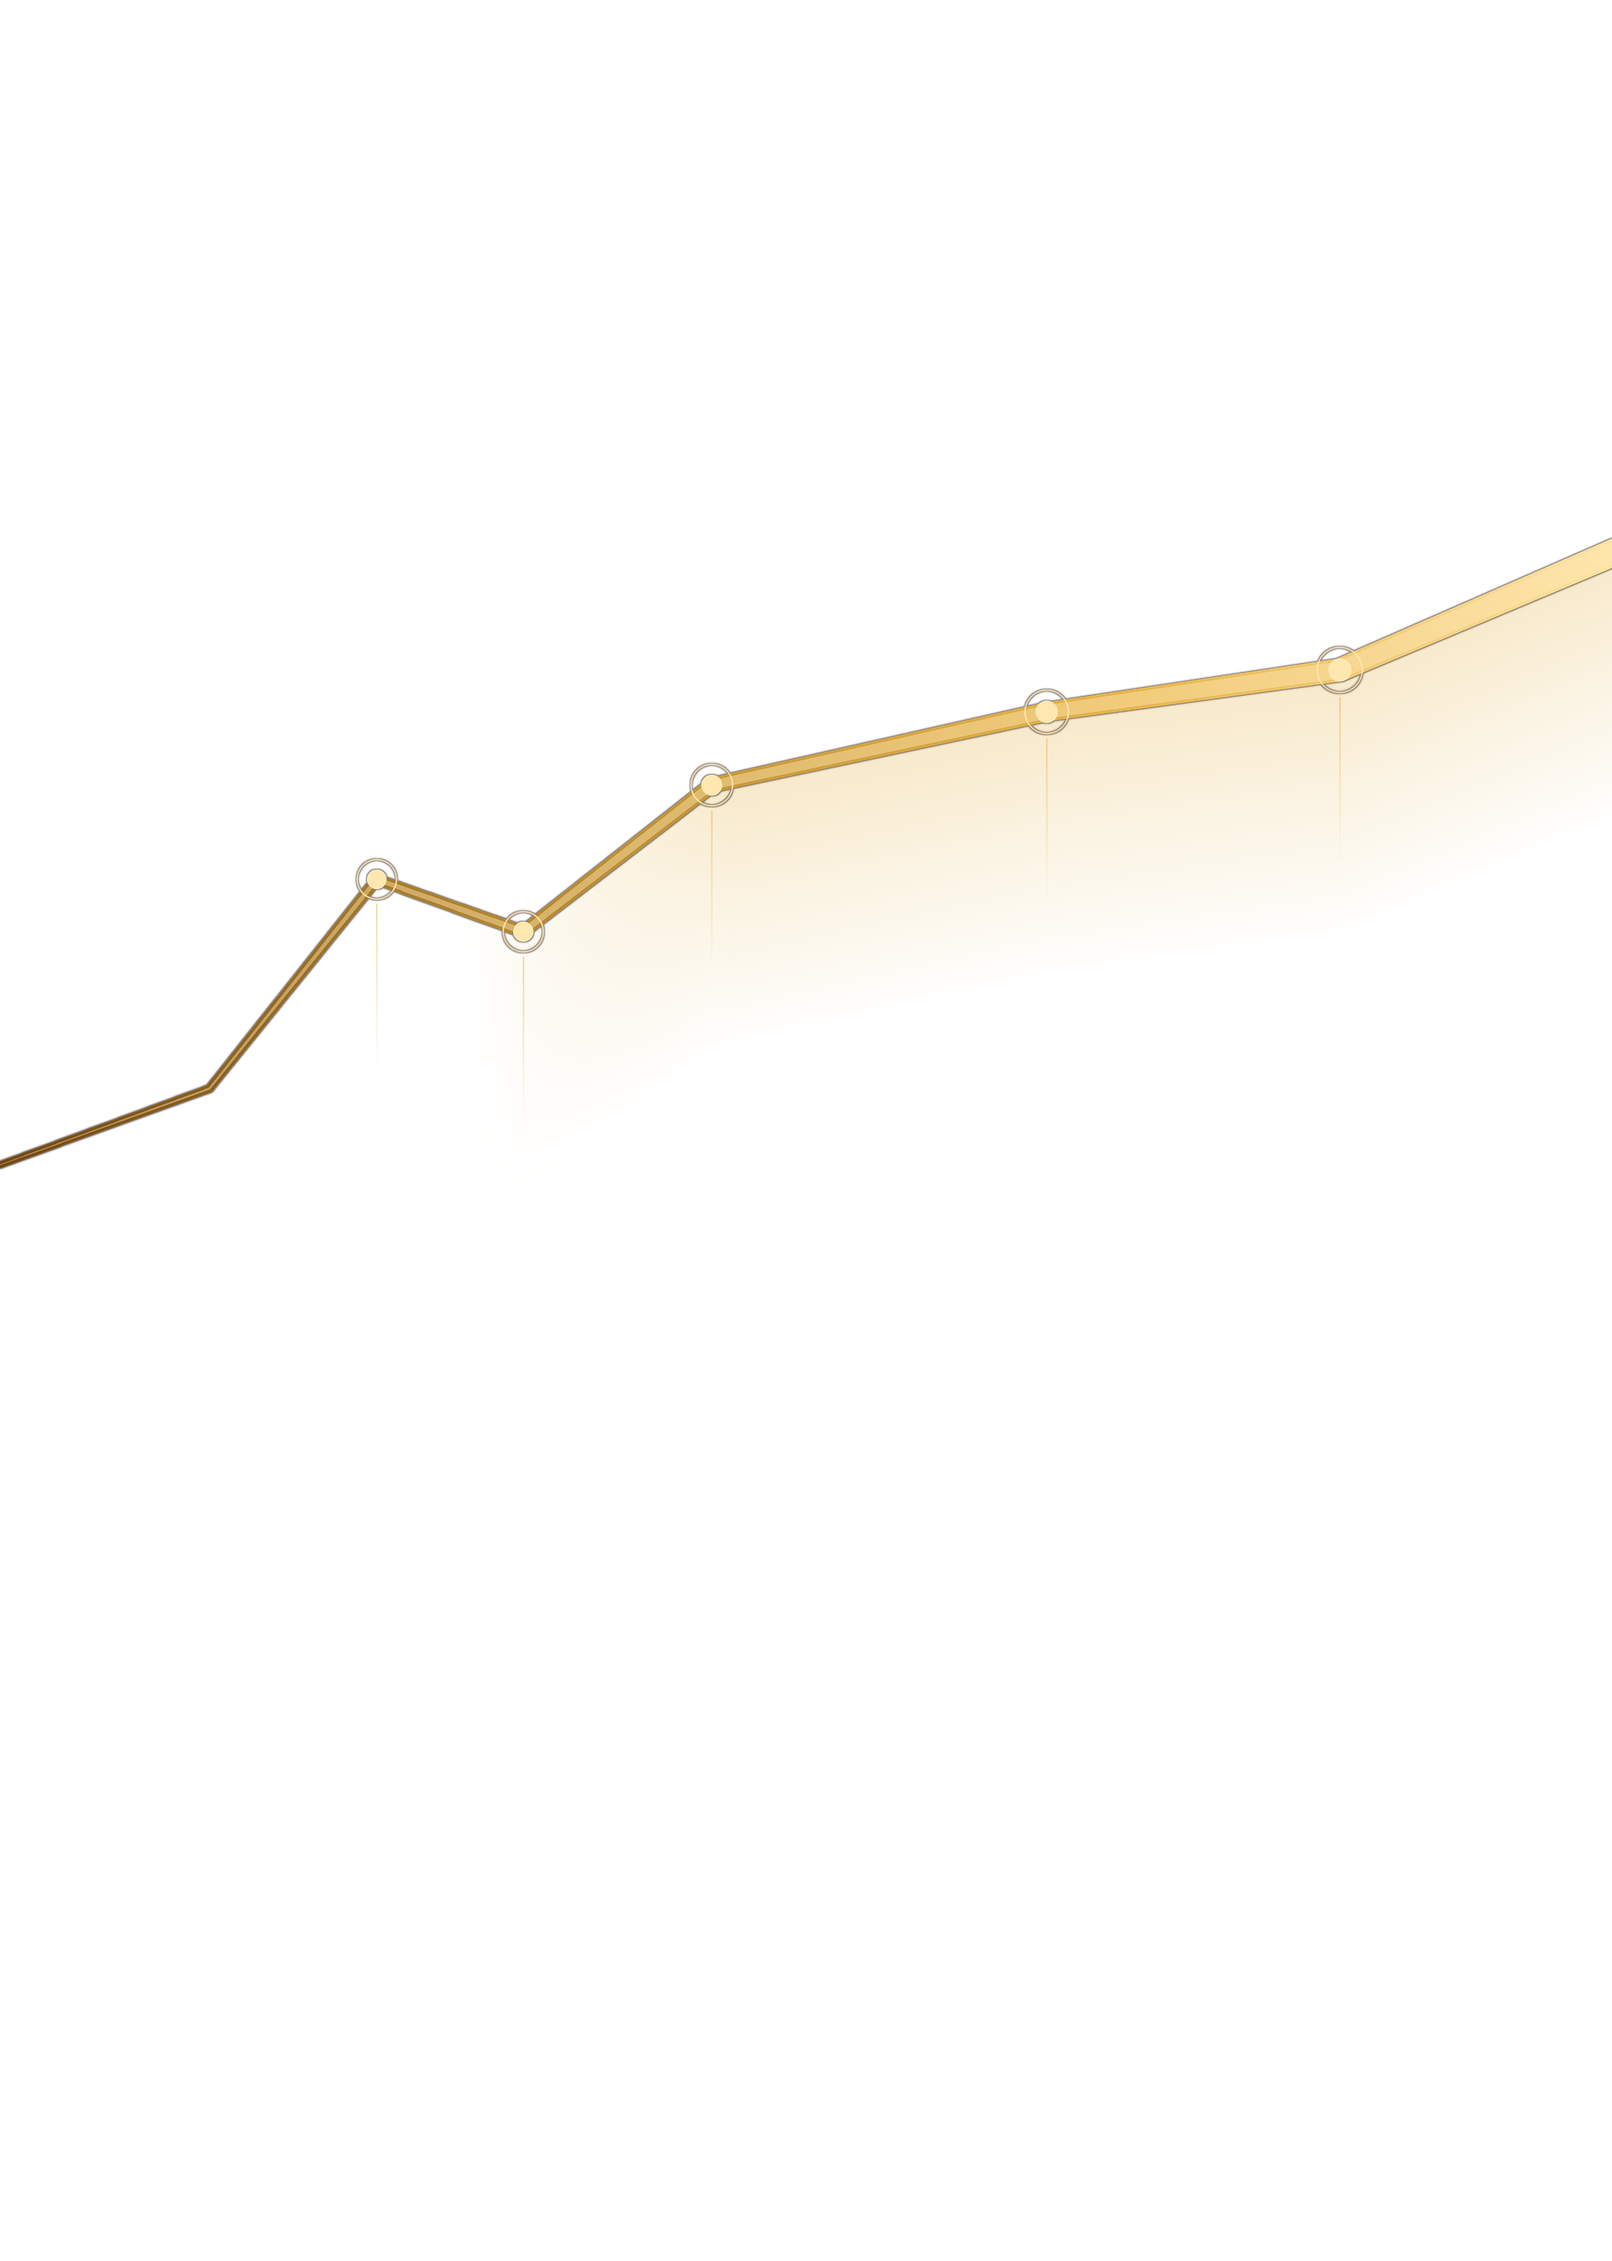
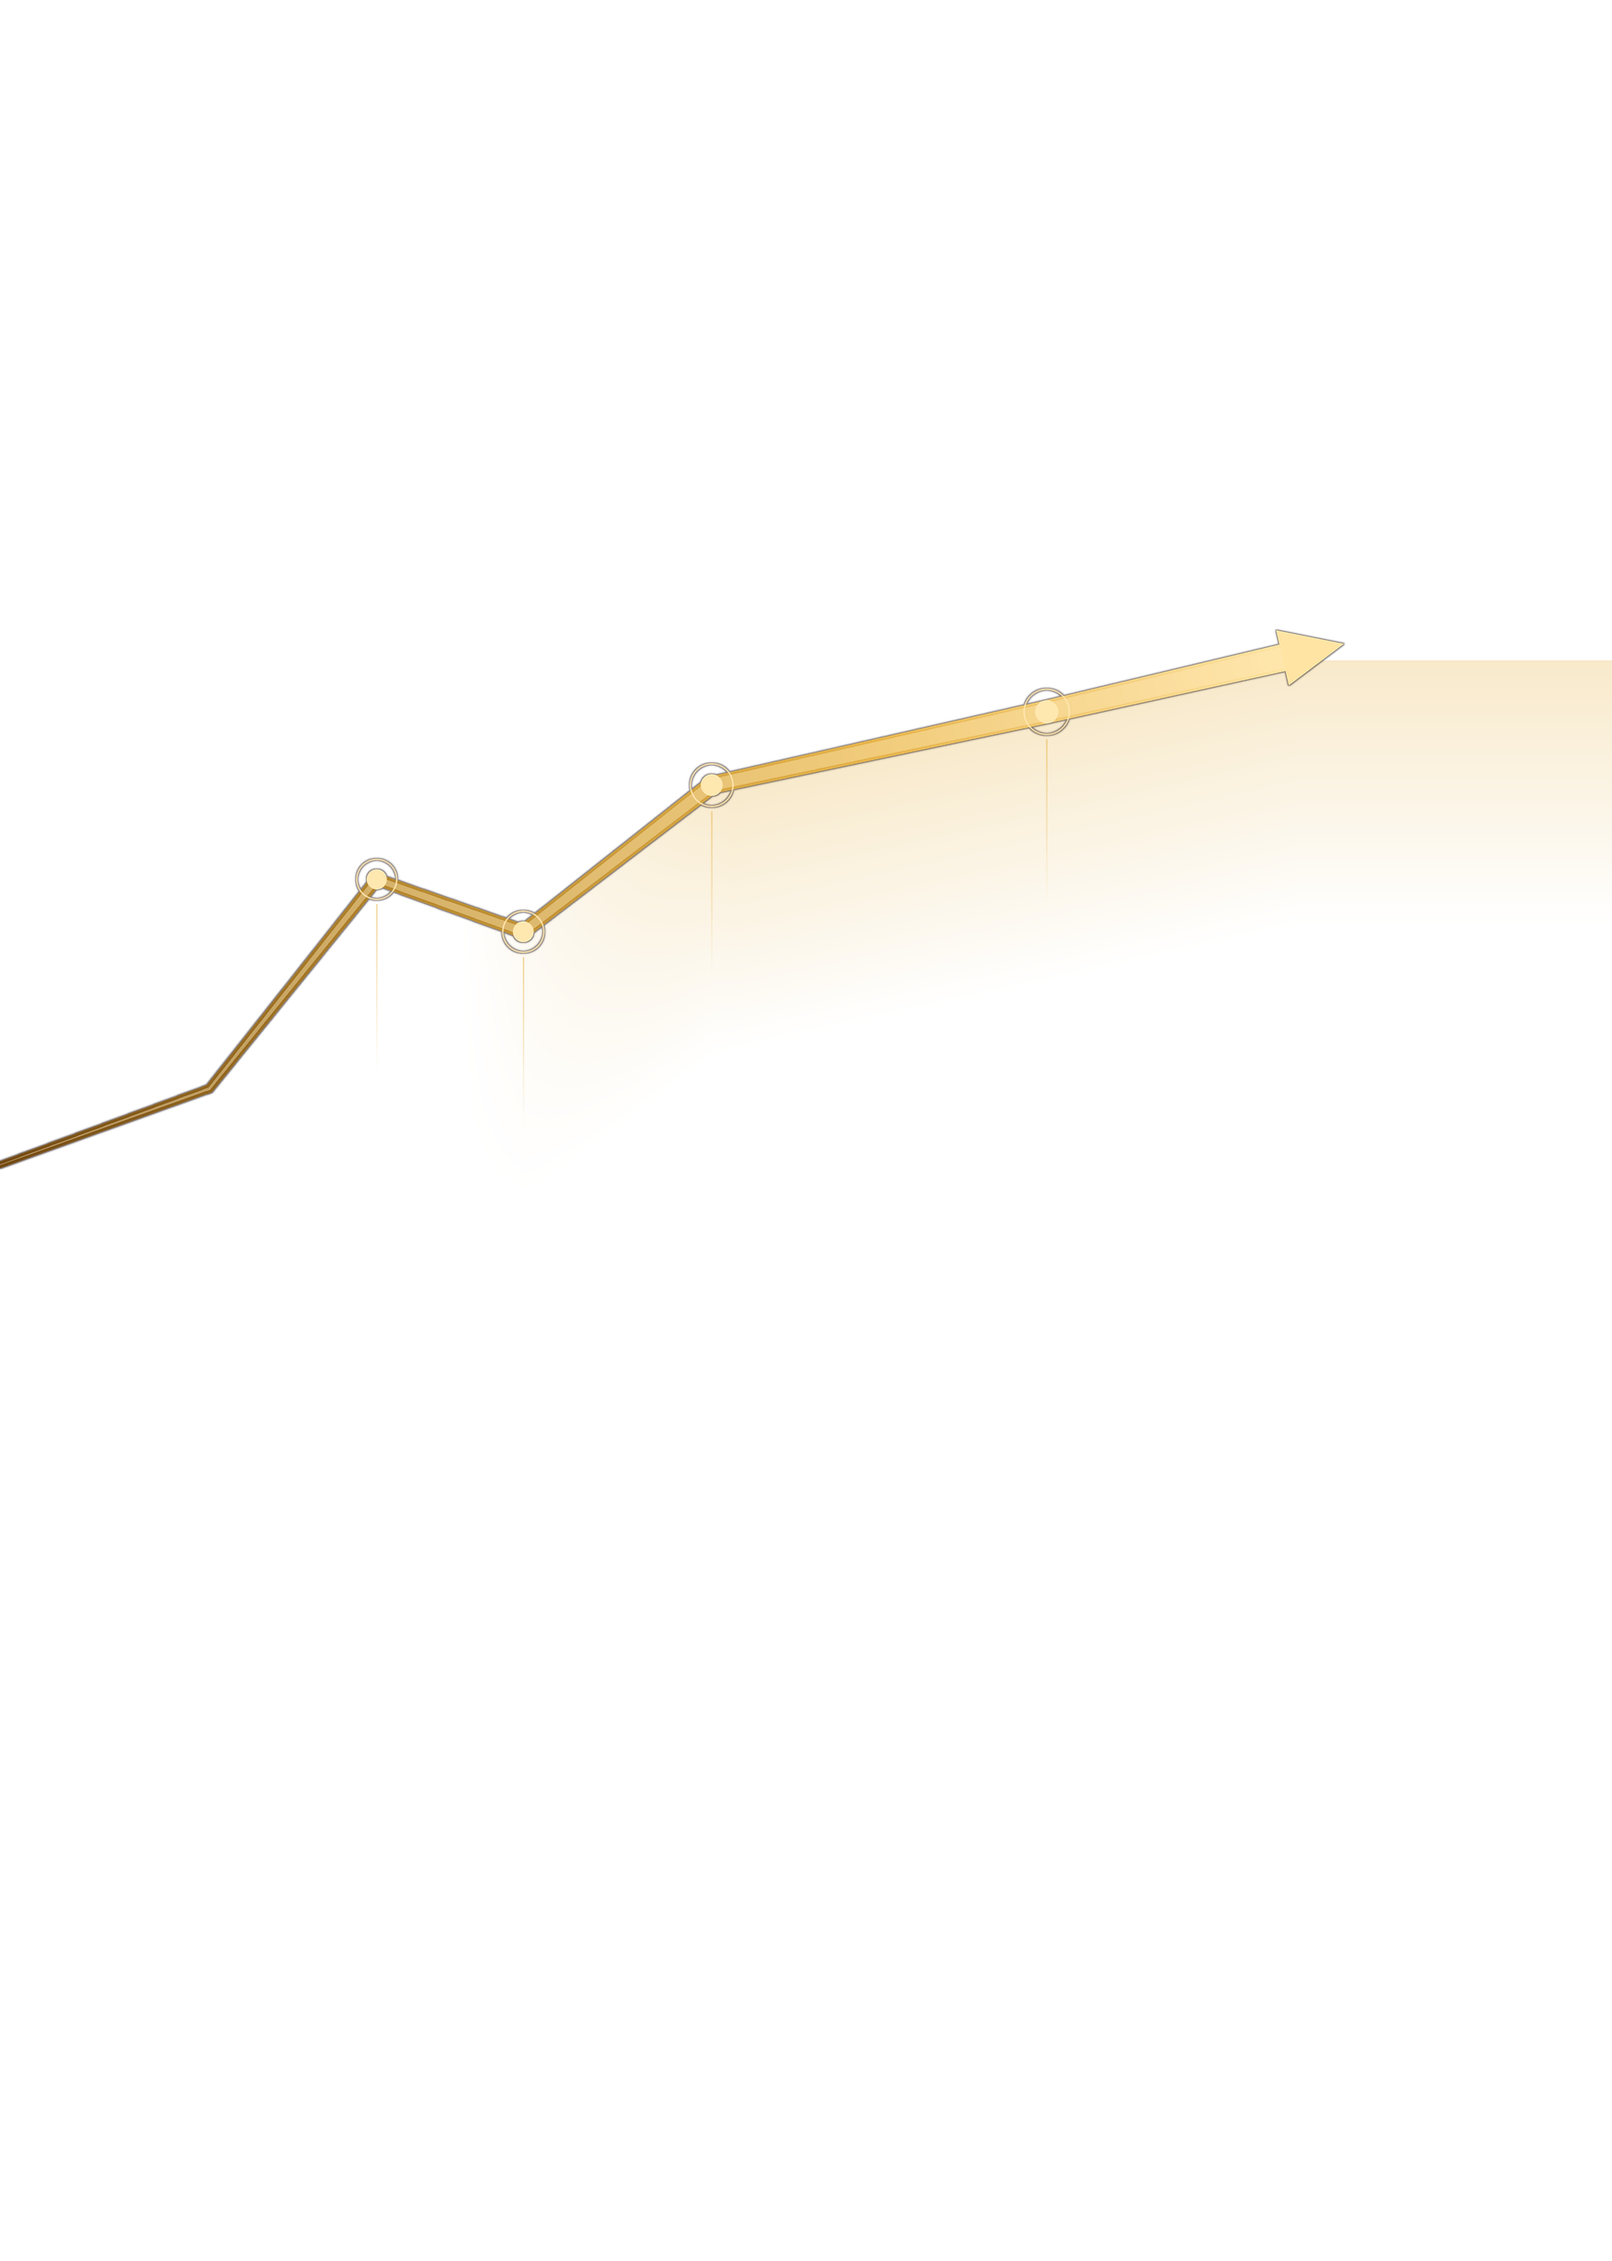
9.5 push: C3 sun, arrow-ended chart, smaller flags, calmer guilloche
- C3: visible dawn sun in the clear gap between the tanker's mast and the chimneys
  (the sunrise had no source); the chart now ends in an arrowhead below the address
  block instead of running off the edge, so it reads as recovery, not rising prices;
  flag ~12% smaller and clears the sky higher; crew larger and closer.
- C2: guilloche eased back close around the dome, so the dome reads first.
- C1: flag ~7% smaller so the palace leads; haze a step denser and more amber.

Claude-Session: https://claude.ai/code/session_01Tw5UnJa8MtZgySYWAndeu3

diff --git a/_scripts/build_C3.py b/_scripts/build_C3.py
@@ -67,13 +67,26 @@ sky = C.curves(sky, [(0, 0), (0.5, 0.47), (1, 0.97)])
 sky = C.blend(sky, np.broadcast_to(C.hexf("#FFC27A"), sky.shape), C.radial(*SUN, 70, 2.4), "screen", 0.55)
 sky = C.blend(sky, np.broadcast_to(C.hexf("#FFF1D2"), sky.shape), C.radial(*SUN, 10, 2.0), "screen", 0.9)
 st = C.Stack("Sky - sunrise", sky)
+# 9.5 review: the sunrise had no source. A visible sun just above the horizon, behind the tanker's
+# bridge, is the cover's focal point: a near-white core, a warm corona and a wide low glow
+# (in the clear gap between the bridge mast and the chimneys, a little above the light source used
+# for the sea's glitter path, which stays under the bridge)
+SD = (111.0, 82.5)
+sun_core = np.clip((1 - np.hypot(xx - SD[0], (yy - SD[1]) * 1.05) / 2.8) * 4, 0, 1)
+st.add("Sun - glow", full(np.broadcast_to(C.hexf("#FFB45E"), (H, W, 3)), C.radial(SD[0], SD[1], 26, 1.8) * 0.55),
+       mode="screen")
+st.add("Sun - corona", full(np.broadcast_to(C.hexf("#FFE3A8"), (H, W, 3)), C.radial(SD[0], SD[1], 8, 1.6)),
+       mode="screen")
+st.add("Sun - disc", full(np.broadcast_to(C.hexf("#FFF8E8"), (H, W, 3)), sun_core))
 
 # ------------------------------------------------------------------ big flag (as 2025), fading out above the dawn band
 flag = cut("FLAG_waving.png")
 flag[..., :3] = C.exposure(flag[..., :3], -0.3)
 flag[..., :3] = C.tint_shadows_highlights(flag[..., :3], shadow=(0.0, -0.01, 0.03), highlight=(0.06, 0.03, -0.02))
-fl = C.place(flag, left_mm=-26, top_mm=-8, width_mm=190, rotate=3)
-fl[..., 3] *= np.clip(1 - (xx - 96) / 64, 0.22, 1) * np.clip((90 - yy) / 24, 0, 1) * 0.94
+# 9.5 review: the flag owned the top third and out-read the energy scene; smaller, and it clears
+# the sky ~12 mm higher so the dawn band and sun carry the middle of the cover
+fl = C.place(flag, left_mm=-24, top_mm=-7, width_mm=168, rotate=3)
+fl[..., 3] *= np.clip(1 - (xx - 90) / 60, 0.2, 1) * np.clip((78 - yy) / 22, 0, 1) * 0.94
 fl = C.rim_light(fl, AMBER, direction=(1, -0.5), width_px=6, strength=0.4)
 st.add("Jalur Gemilang (exact vector on fabric)", fl)
 
@@ -265,8 +278,8 @@ st.add("Promontory under the crew (real lalang)", back)
 crew = cut("R-OG-CREW.png")                   # REAL (Pexels 28247164; real_prep2.py)
 # they face the sunrise, so the backs we see are in shade; the coveralls stay orange, the sun rims hats and shoulders
 crew = backlit(crew, -1.05, 0.85, (-0.005, 0.0, 0.035))
-CW = 40.0
-ckw = dict(left_mm=80, top_mm=112.0 - 0.063 * CW * crew.shape[0] / crew.shape[1], width_mm=CW)
+CW = 46.0                                     # 9.5 review: larger and closer, a clear human anchor
+ckw = dict(left_mm=76, top_mm=110.0 - 0.063 * CW * crew.shape[0] / crew.shape[1], width_mm=CW)
 cw = C.place(crew, **ckw)
 cw = C.rim_light(cw, "#FFC27A", direction=(-0.3, -1), width_px=5, strength=0.95)
 cw = C.light_wrap(cw, full(st.comp), width_px=6, strength=0.3)

diff --git a/_scripts/build_growth.py b/_scripts/build_growth.py
@@ -99,11 +99,15 @@ def save_preview(layers, stem):
 # dip (the energy shock), then a prudent recovery and steady growth to the upper right, above the
 # tanker's bridge, the power station and the TNB tower. Straight segments, nodes, drop lines and a
 # faint area fill are what make it read as a chart rather than a light streak.
+# 9.5 review: the line used to run off the top-right edge behind the address block and never visibly
+# ended, so it could read as "prices rising". It now ends below the address block in an arrowhead:
+# a dip, a recovery, and growth that lands, unambiguously positive.
 CHART = [(-2.0, 112.0), (20.0, 104.0), (36.0, 84.0), (50.0, 89.0), (68.0, 75.0), (100.0, 68.0),
-         (128.0, 64.0), (156.0, 52.0)]
-NODE_IDX = (2, 3, 4, 5, 6)                       # visible points (0-1 sit behind the engineer, 7 is in the bleed)
+         (124.0, 62.5)]
+NODE_IDX = (2, 3, 4, 5)                          # visible points (0-1 sit behind the platform); the last is the arrow
+ARROW_LEN, ARROW_W = 6.0, 5.4                    # mm
 # C3 heads (canvas mm); nodes must stay clear of faces
-HEADS = [(90, 114), (113, 113)]                         # the oil-and-gas crew (review 28 Oct)
+HEADS = [(88, 111), (114, 110)]                         # the oil-and-gas crew (review 28 Oct)
 KEEP_CLEAR = [(78, 80, 108, 100), (118, 74, 150, 95)]   # tanker bridge + mast, tower top + chimneys (x0, y0, x1, y1)
 
 
@@ -149,6 +153,14 @@ def rising_line():
                           core.point(lambda v: int(v * 0.45)))
     mask = canvas(mode="L")
     stroke(ImageDraw.Draw(mask), fill=255)
+    # arrowhead on the last segment: the chart lands, pointing up and on
+    u = (P[-1] - P[-2]) / np.linalg.norm(P[-1] - P[-2])
+    n = np.array([-u[1], u[0]])
+    tip = P[-1] + u * ARROW_LEN * 0.75
+    back = P[-1] - u * ARROW_LEN * 0.25
+    tri = to_px([tuple(tip), tuple(back + n * ARROW_W / 2), tuple(back - n * ARROW_W / 2)])
+    ImageDraw.Draw(rgb).polygon(tri, fill=tuple(int(c) for c in hexrgb(GOLD_STOPS[-1][1])))
+    ImageDraw.Draw(mask).polygon(tri, fill=255)
 
     # --- nodes (dot + ring) and drop lines to the baseline (hairline, fading down)
     node_mask = canvas(mode="L")

diff --git a/_scripts/build_C1.py b/_scripts/build_C1.py
@@ -50,6 +50,8 @@ haze = C.place(np.dstack([hreal, np.ones(hreal.shape[:2], np.float32)]), left_mm
 haze = haze * 0.45 + C.lum(haze)[..., None] * C.hexf("#EAD2AE") * 0.62
 # keep the plate's own smoky brown-grey (desaturating it to beige read as plain background at thumbnail)
 haze = C.saturation(C.exposure(haze, 0.06), 0.95)
+# 9.5 review: the before/after must be unmistakable: the smog a step denser and more amber-brown
+haze = haze * 0.88 + C.hexf("#B58E62") * 0.12
 clear = C.curves(clear, [(0, 0), (0.5, 0.48), (1, 0.98)])
 rng = np.random.default_rng(11)
 n1 = C.blur(rng.normal(0, 1, (H, W)).astype(np.float32), 55)
@@ -86,7 +88,7 @@ flag[..., :3] = C.curves(flag[..., :3], [(0, 0.02), (0.5, 0.52), (1, 1)])
 # the smog is distant atmosphere: it sits behind the flag, which stays clean and vivid
 drift = np.clip(hz * 1.15 - 0.15, 0, 1) ** 1.3 * (0.75 + 0.25 * np.clip(n1, -1, 1)) * 0.6
 st.add("Haze drift (behind the flag)", full(haze, np.clip(drift, 0, 1)))
-fl = C.place(flag, left_mm=-26, top_mm=-8, width_mm=190, rotate=3)
+fl = C.place(flag, left_mm=-24, top_mm=-7, width_mm=176, rotate=3)          # 9.5 review: ~7% smaller, palace leads
 fl[..., 3] *= np.clip(1 - (xx - 98) / 62, 0.22, 1) * np.clip((100 - yy) / 30, 0, 1)
 fl[..., 3] *= np.clip((58 + 0.30 * xx - yy) / 16 + 0.5, 0, 1)        # lower-left edge dissolves into the haze (clear sky for the C-130)
 fl = C.rim_light(fl, SUN, direction=(1, -1), width_px=5, strength=0.3)

diff --git a/_scripts/build_C2.py b/_scripts/build_C2.py
@@ -98,6 +98,11 @@ key[..., 3] = np.clip(C.blur(rs[..., 3], 2.2) * 1.4, 0, 1) * 0.42
 stripe = np.clip(fl[..., 3] * 1.2, 0, 1) * np.clip((DOME_CX - 18 - xx) / 14 + 1, 0, 1) * np.clip((DOME_CY + 2 - yy) / 6, 0, 1)
 rs[..., 3] *= 1 - stripe * 0.4
 key[..., 3] *= 1 - stripe * 0.4
+# 9.5 review: the engraving competed with the dome. Ease it back close around the dome (the outer
+# rings and rim stay at full strength), so the gold dome reads first and the seal second
+near = C.radial(DOME_CX, DOME_CY + 4, 34, 2.0)
+rs[..., 3] *= 1 - near * 0.4
+key[..., 3] *= 1 - near * 0.4
 st.add("Guilloche halo keyline", key)
 st.add("Guilloche halo", rs, opacity=0.85)
 halo = C.radial(DOME_CX, HALO_CY, 70, 2.2)
